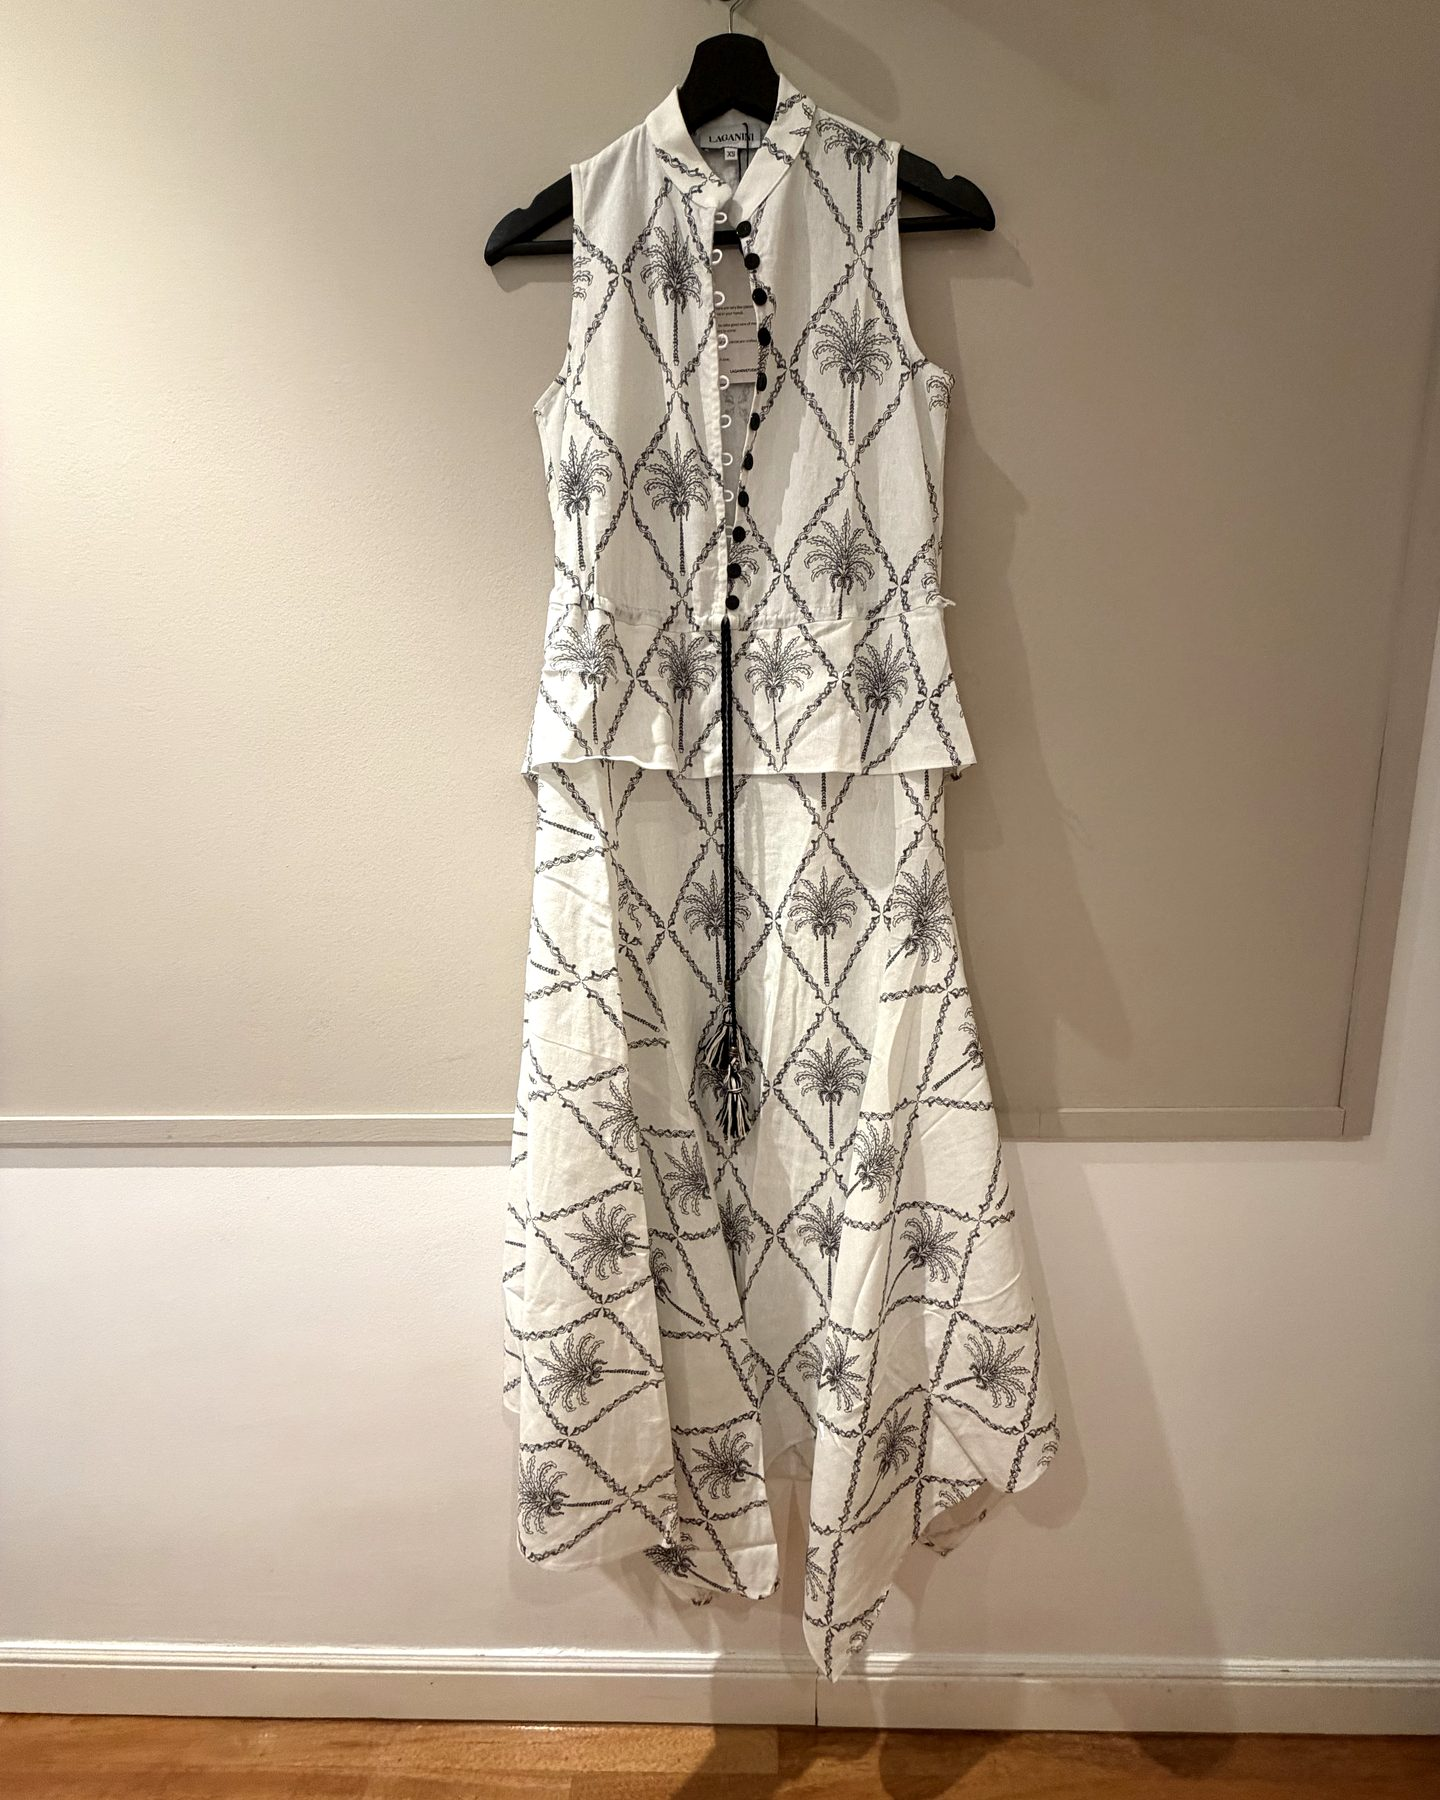
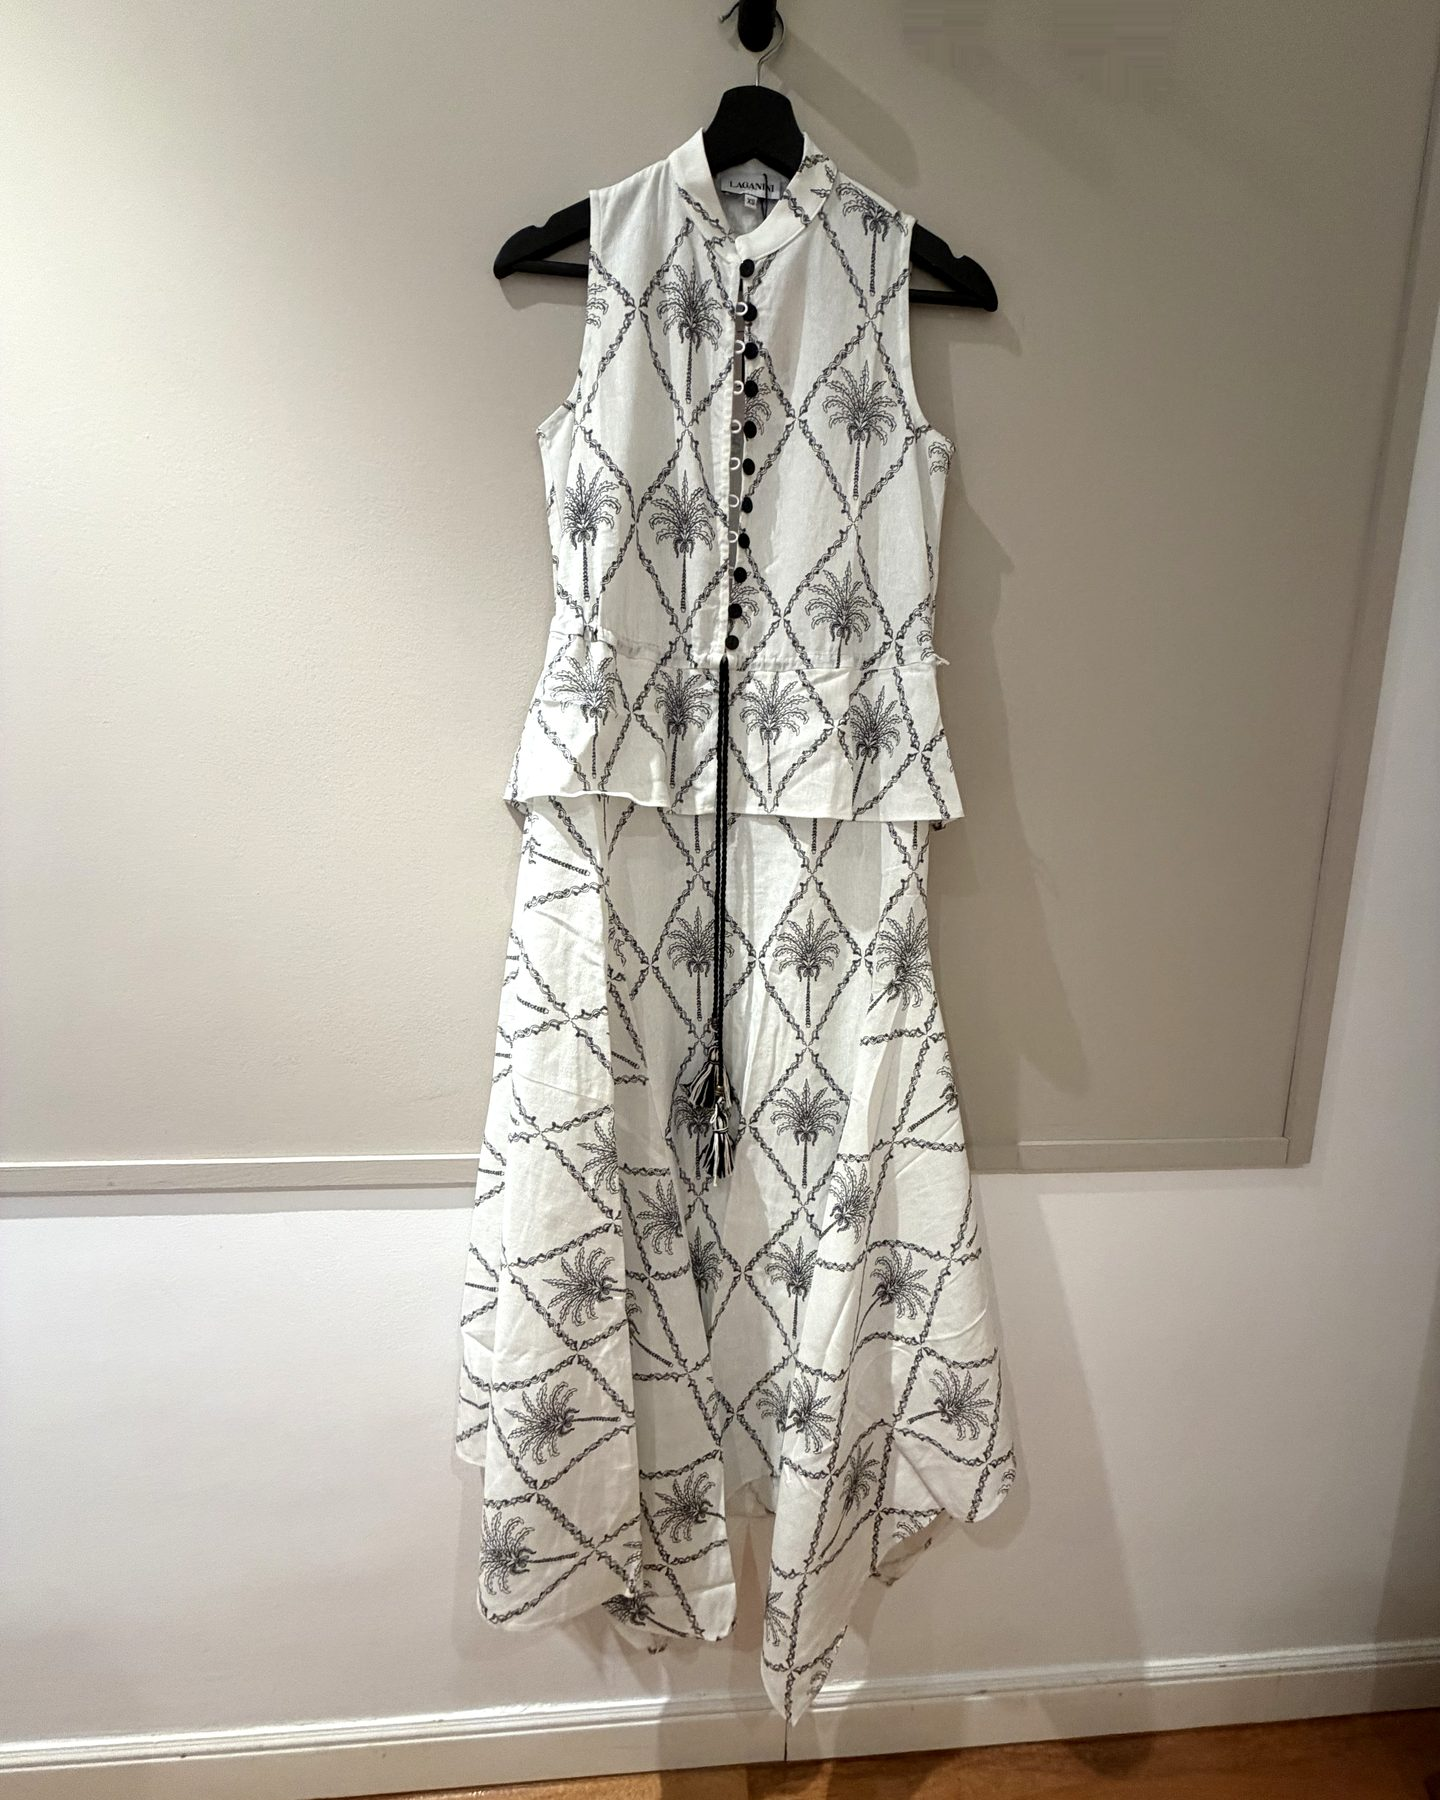
Journal: swap dress hero to the buttons-closed photo (wall hooks retouched out)

diff --git a/journal/falling-for-the-dress-i-didnt-see-coming/index.html b/journal/falling-for-the-dress-i-didnt-see-coming/index.html
@@ -32,7 +32,7 @@
     <p class="byline">A founder's note · From the Atelier Daily studio</p>
 
     <figure class="article-img">
-      <img src="../../assets/img/journal-ica-hana-dress.jpg" width="1440" height="1800"
+      <img src="../../assets/img/journal-ica-hana-dress.jpg?v=2" width="1440" height="1800"
            alt="The Ica Hana dress by Laganini Studio — white cotton-linen with a hand-drawn palm-tree print, mandarin collar and buttoned vest bodice — hanging against a cream wall.">
       <figcaption>The Ica Hana, at home in Madrid · Photograph by the author</figcaption>
     </figure>